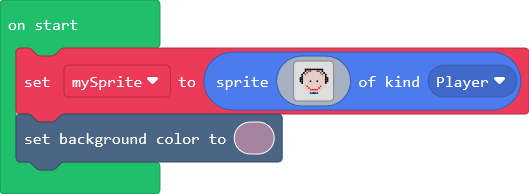
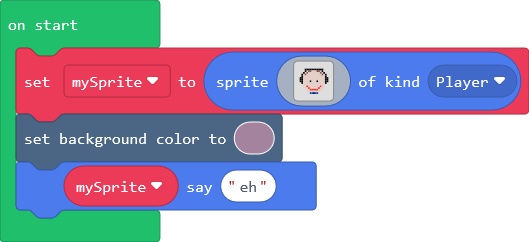
Added conversation

diff --git a/main.ts b/main.ts
@@ -17,3 +17,4 @@ let mySprite = sprites.create(img`
 . . . . . . . 8 8 f 8 8 . . . . . . . 
 `, SpriteKind.Player)
 scene.setBackgroundColor(11)
+mySprite.say("eh")
